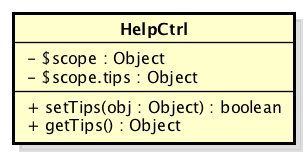
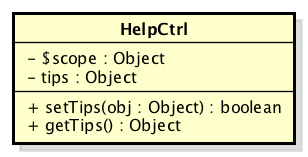
helpCtrl fixed

Changed region(s): [[0.1169, 0.4331, 0.6429, 0.5605]]

diff --git a/esterni/definizione_di_prodotto/sections/model_front_end_controllers.tex b/esterni/definizione_di_prodotto/sections/model_front_end_controllers.tex
@@ -275,8 +275,14 @@ Questa classe viene utilizzata per consentire all'utente di aggiungere, modifica
 	\begin{itemize}
 		\item \textbf{-\$scope: Object}:\\
 				Campo dati contenente un riferimento all'oggetto \$scope creato da Angular, viene utilizzato come mezzo di comunicazione tra il controller e la view. Contiene gli oggetti che definiscono il model dell'applicazione.
-		\item \textbf{-\$scope.tips: Object}:\\
+		\item \textbf{-tips: Object}:\\
 				Campo dati che racchiude in un array di oggetti JSON tutti i suggerimenti necessari allo svolgimento del tour tra le funzionalità del sistema ed al supporto all'utente.
+				Nello specifico, ciascun  oggetto contiene:
+				\begin{itemize}
+					\item \textbf{id:} campo dati identificativo dell'aiuto;
+					\item \textbf{reference:} campo dati identificativo dell'identificativo html dell'oggetto per il quale fornisce l'aiuto;
+					\item \textbf{description:} campo dati contenente la stringa di testo effettiva dell'aiuto;
+				\end{itemize}
 	\end{itemize}
 
 	\paragraph{Metodi}
